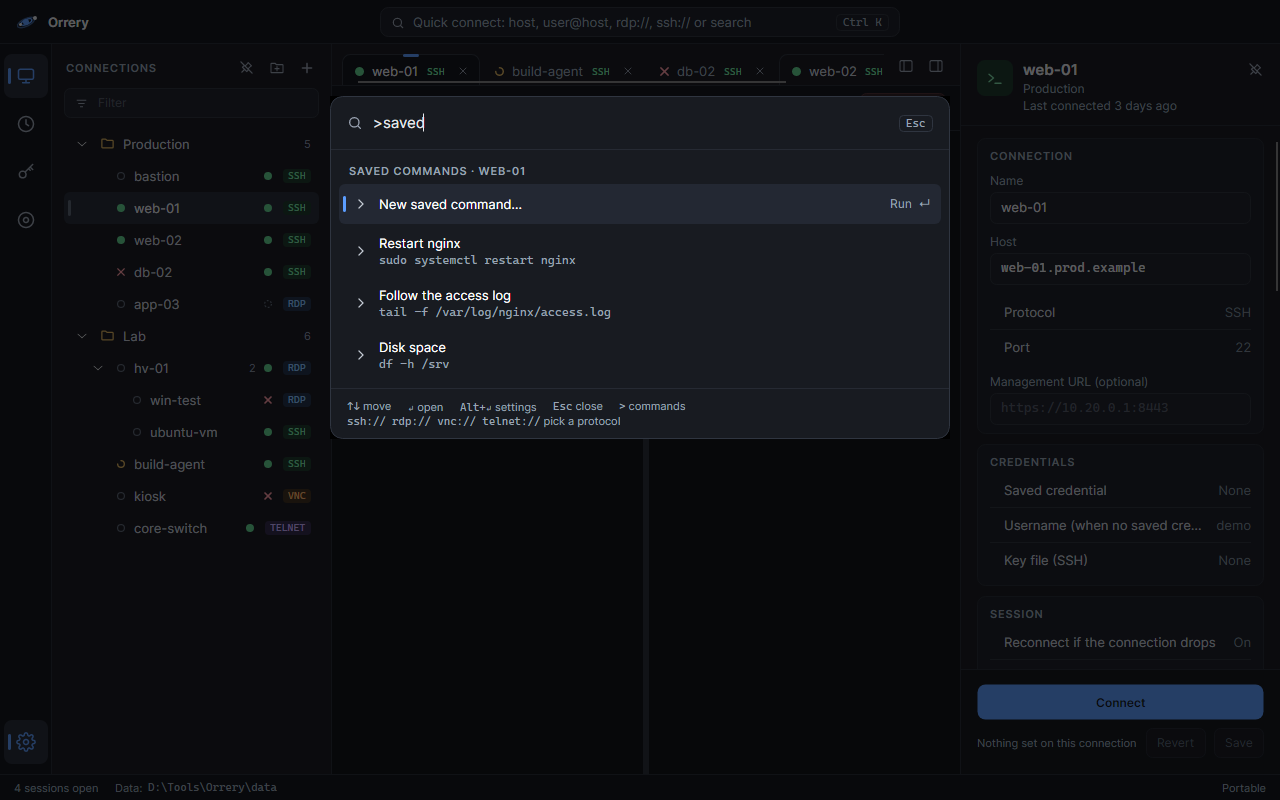
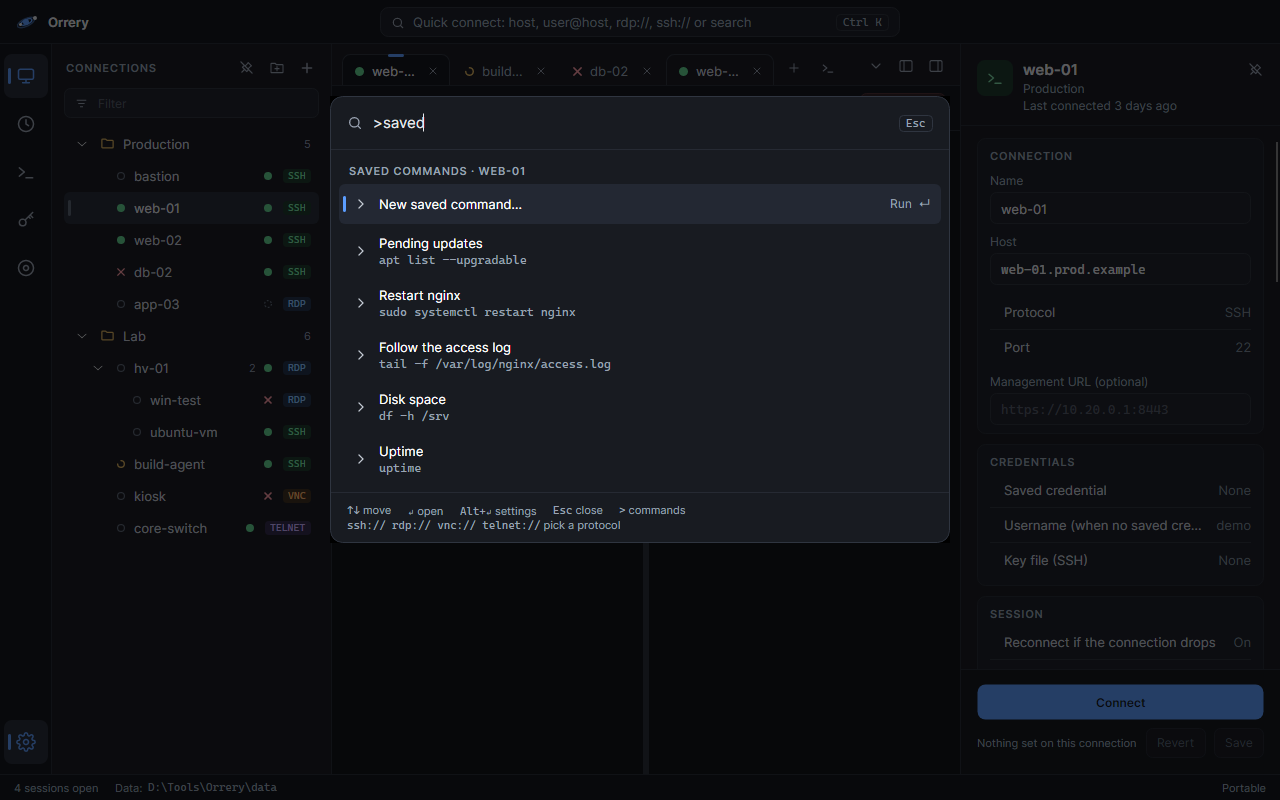
README screenshots redrawn, with the Commands page; narrow tabs keep their names
The rail's new Commands button and the narrower tabs are in every shot,
and commands-page.png shows a command saved on two connections. The demo
data has a defaults command and a linked one.

A squeezed tab now drops its protocol tag before its name, so it reads
"web-01" rather than "… SSH". The picker's top row is "Every connection
(the defaults)", with the longer wording in its tooltip.

diff --git a/tools/Orrery.Screenshots/Shots.cs b/tools/Orrery.Screenshots/Shots.cs
@@ -86,6 +86,8 @@ static class Shots
 
             await SideBySideAsync(window, demo, web, tabs[0], output);
 
+            await CommandsPageAsync(window, output);
+
             using var preview = await RenderAsync(SocialPreview(hero, new Bitmap(icon)), 1280, 640);
             Save(preview, output, "social-preview.png");
         }
@@ -234,6 +236,27 @@ static class Shots
         await SettleAsync(10);
         await QuickConnectAsync(window, output, ">saved", "saved-commands.png", commands: true);
         Invoke(window, "EndSplit", webTab, true);
+        await SettleAsync();
+    }
+
+    /// <summary>The Commands page, with the command saved on two connections open beside it and its places ticked.</summary>
+    static async Task CommandsPageAsync(MainWindow window, string output)
+    {
+        var sides = Private<Dictionary<string, (Button RailButton, Control View)>>(window, "_sides");
+        Invoke(window, "OnRailClick", sides["commands"].RailButton, new Avalonia.Interactivity.RoutedEventArgs());
+        await SettleAsync();
+        var panel = Private<CommandsPanel>(window, "_commandsPanel");
+        var linked = panel.All().First(c => c.Copies.Count > 1);
+        panel.Select(linked.Command);
+        Private<CommandEditorPane>(window, "_commandEditor").Show(linked);
+        Invoke(window, "RevealInspector");
+        await SettleAsync(10);
+        using (var page = Capture(window))
+        {
+            Save(page, output, "commands-page.png");
+        }
+
+        Invoke(window, "OnRailClick", sides["connections"].RailButton, new Avalonia.Interactivity.RoutedEventArgs());
         await SettleAsync();
     }
 

diff --git a/src/Orrery.App/Sessions/TabStripPanel.cs b/src/Orrery.App/Sessions/TabStripPanel.cs
@@ -17,6 +17,9 @@ sealed class TabStripPanel : StackPanel
     /// <summary>Narrower than this, a tab's name would be a letter or two, so it shows its state alone.</summary>
     public const double CompactWidth = 96;
 
+    /// <summary>Below this share, a squeezed tab drops its protocol tag so its name keeps the room.</summary>
+    public const double TightWidth = 150;
+
     double _room = double.PositiveInfinity;
 
     public TabStripPanel() => Orientation = Avalonia.Layout.Orientation.Horizontal;
@@ -40,10 +43,10 @@ sealed class TabStripPanel : StackPanel
         var shown = Children.Where(c => c.IsVisible).ToList();
         var tabs = shown.OfType<SessionTabHeader>().ToList();
 
-        // A compact tab keeps the full width it had, so the strip can tell when its name fits again.
+        // A compact or tight tab keeps the full width it had, so the strip can tell when it all fits again.
         foreach (var child in shown)
         {
-            if (child is not SessionTabHeader { Compact: true })
+            if (child is not SessionTabHeader { Compact: true } and not SessionTabHeader { Tight: true })
             {
                 child.Measure(Size.Infinity);
                 if (child is SessionTabHeader tab)
@@ -61,6 +64,7 @@ sealed class TabStripPanel : StackPanel
         {
             bool squeezed = tab.FullWidth > share;
             tab.Compact = squeezed && share < CompactWidth;
+            tab.Tight = squeezed && !tab.Compact && share < TightWidth;
             tab.Measure(squeezed ? new Size(Math.Max(MinTabWidth, share), availableSize.Height) : Size.Infinity);
         }
 

diff --git a/src/Orrery.App/Sessions/SessionTab.cs b/src/Orrery.App/Sessions/SessionTab.cs
@@ -54,6 +54,7 @@ sealed class SessionTab
 
     /// <summary>The name and its protocol tag, hidden when the tab is squeezed down to its state.</summary>
     readonly DockPanel _name = new() { VerticalAlignment = VerticalAlignment.Center };
+    readonly TextBlock _protocolTag;
     readonly Button _close;
     // The current tab's marker, along its top over the outline; App.axaml shows it on the selected tab.
     readonly Border _marker = new() { Classes = { "marker", "top" } };
@@ -116,6 +117,7 @@ sealed class SessionTab
         _name.Children.Add(Pane.Docked(protocol, Dock.Right));
         _name.Children.Add(title);
         _close = close;
+        _protocolTag = protocol;
         Header.CompactChanged += (_, _) => ShowCompact();
         _label = $"{origin.Title}, {(origin.Local ? "local terminal" : protocol.Text)}";
         Header.Label = _label;
@@ -844,6 +846,7 @@ sealed class SessionTab
     void ShowCompact()
     {
         _name.IsVisible = !Header.Compact;
+        _protocolTag.IsVisible = !Header.Tight;
         _close.IsVisible = !Header.Compact || Header.IsCurrent;
     }
 

diff --git a/src/Orrery.App/Sessions/SessionTabHeader.cs b/src/Orrery.App/Sessions/SessionTabHeader.cs
@@ -52,6 +52,25 @@ sealed class SessionTabHeader : Button
 
     public event EventHandler? CompactChanged;
 
+    bool _tight;
+
+    /// <summary>
+    /// Squeezed, but not yet to its state: the protocol tag is hidden so the room left goes to the name, which would
+    /// otherwise be cut to an ellipsis beside a tag that still fits.
+    /// </summary>
+    public bool Tight
+    {
+        get => _tight;
+        set
+        {
+            if (_tight != value)
+            {
+                _tight = value;
+                CompactChanged?.Invoke(this, EventArgs.Empty);
+            }
+        }
+    }
+
     /// <summary>Its width with the name showing, kept while it's compact so the strip knows when it fits again.</summary>
     internal double FullWidth { get; set; }
 

diff --git a/tests/Orrery.App.Tests/WorkspaceTests.cs b/tests/Orrery.App.Tests/WorkspaceTests.cs
@@ -391,6 +391,7 @@ public class WorkspaceWindowTests : IDisposable
         // Many: just their state, at their narrowest, and then the strip scrolls.
         Add(30);
         Assert.All(headers, h => Assert.True(h.Compact));
+        Assert.All(headers, h => Assert.False(h.Tight));
         Assert.True(scroller.Extent.Width > scroller.Viewport.Width);
 
         // Closing most of them gives the names back.
@@ -401,6 +402,7 @@ public class WorkspaceWindowTests : IDisposable
 
         Dispatcher.UIThread.RunJobs();
         Assert.All(headers.Take(2), h => Assert.False(h.Compact));
+        Assert.All(headers.Take(2), h => Assert.False(h.Tight));
         window.Close();
     }
 

diff --git a/src/Orrery.App/Connections/CommandPlacePicker.cs b/src/Orrery.App/Connections/CommandPlacePicker.cs
@@ -36,7 +36,8 @@ sealed class CommandPlacePicker : DockPanel
         _root = tree.Root;
         _chosen = [.. chosen];
         var list = new StackPanel { Spacing = 0, Margin = new Thickness(8, 4) };
-        AddRow(list, _root, 0, "Every connection, and terminals without one (the defaults)", muted: null);
+        AddRow(list, _root, 0, "Every connection (the defaults)", muted: null);
+        ToolTip.SetTip(_rows[0].Line, "Every saved connection, and terminals without one: local shells and quick connects");
         AddChildren(list, _root, 1);
 
         AutomationProperties.SetName(_filter, "Filter places");

diff --git a/tools/Orrery.Screenshots/DemoData.cs b/tools/Orrery.Screenshots/DemoData.cs
@@ -60,6 +60,10 @@ sealed class DemoData
             new SavedCommand { Name = "Disk space", Text = "df -h /srv" },
         ];
 
+        // One command for every terminal, and one saved on two connections at once (linked copies).
+        tree.Root.Commands = [new SavedCommand { Name = "Uptime", Text = "uptime" }];
+        SavedCommands.Save([], new SavedCommand { Name = "Pending updates", Text = "apt list --upgradable" }, [web01, buildAgent]);
+
         ConnectionStore.In(location).Save(tree);
         AppSettingsStore.In(location).Save(new AppSettings
         {

diff --git a/README.md b/README.md
@@ -259,7 +259,12 @@ It runs commands too: start with `>` to list them all, or type a few words ("dis
 
 <p align="center">
   <img src="docs/images/saved-commands.png" width="720"
-       alt="Quick connect open over the main window with >saved typed in. Under Saved commands · web-01 it lists New saved command…, then Restart nginx, Follow the access log and Disk space, each with the command it sends beneath its name.">
+       alt="Quick connect open over the main window with >saved typed in. Under Saved commands · web-01 it lists New saved command…, then Pending updates, Restart nginx, Follow the access log, Disk space and Uptime, each with the command it sends beneath its name.">
+</p>
+
+<p align="center">
+  <img src="docs/images/commands-page.png" width="720"
+       alt="The Commands page in the side panel. It lists Uptime under Every connection (the defaults), Pending updates under On several places with On web-01, build-agent beneath it, and Restart nginx, Follow the access log and Disk space under Production. Pending updates is open in the right-hand pane: Save on lists the defaults, Production and its connections with web-01 ticked, says it reaches 2 saved connections, and has the name, the command apt list --upgradable, and its options below.">
 </p>
 
 - **Wake-on-LAN** from the right-click menu, once a connection has a MAC address.

diff --git a/docs/screenshots.md b/docs/screenshots.md
@@ -44,7 +44,8 @@ The tool is in `Orrery.sln`, so it keeps building, but it isn't a test project a
 | `connection-lost.png` | The connection-lost screen for a login the server refused |
 | `quick-connect.png` | Quick connect with "web" typed in |
 | `side-by-side.png` | web-01 and web-02 side by side, web-01 finding "nginx" in its scrollback |
-| `saved-commands.png` | Quick connect with ">saved" typed in: the saved commands web-01 has from Production |
+| `saved-commands.png` | Quick connect with ">saved" typed in: the saved commands web-01 has from Production, the defaults and its own |
+| `commands-page.png` | The Commands page, with a command saved on web-01 and build-agent open in the right-hand pane |
 | `settings-appearance.png` | Settings › Appearance with a color vision chosen |
 | `recording.png` | An SSH tab being recorded, with the red dot and the REC pill |
 | `recording-playback.png` | The Recordings panel and player, paused partway through that recording |
